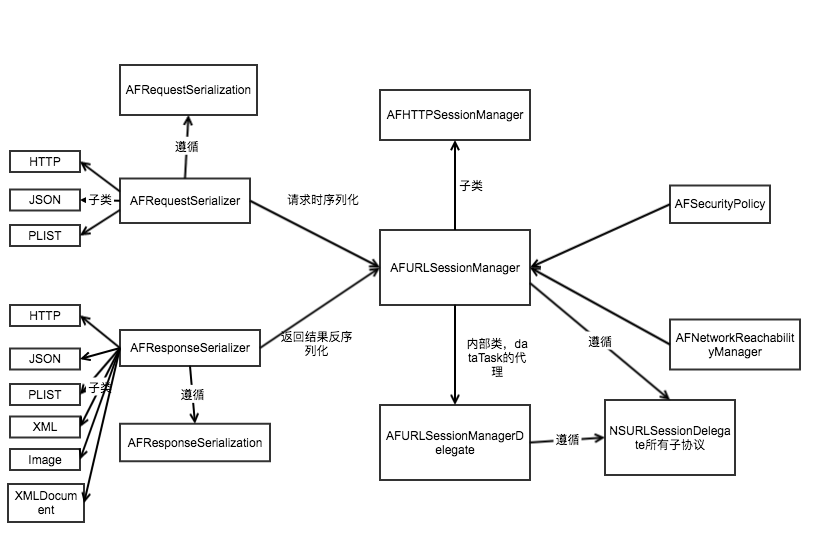
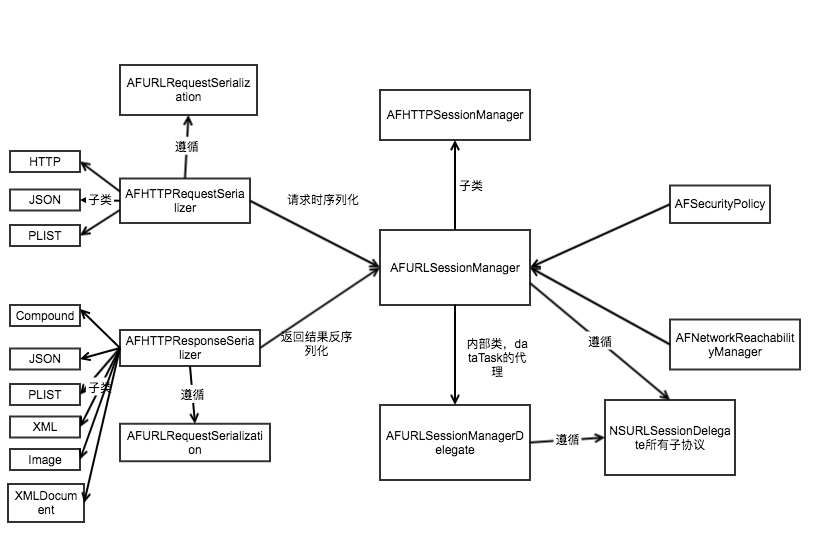
完成blog AFNetworking 3.0 源码浅析

diff --git a/2018-2-15/AFNetworking 3.0 源码浅析.md b/2018-2-15/AFNetworking 3.0 源码浅析.md
@@ -2,7 +2,7 @@
 
 
 
-> 摘要: AFNetworking 3.0 基于NSURLSession进行网络请求，最关键的地方其实还是NSURLRequest与NSURLSessionTask的构建。
+> 摘要: AFNetworking 3.0 基于NSURLSession进行网络请求，最关键的地方其实还是NSURLRequest与NSURLSessionTask的构造。
 
 
 ## AFN结构图
@@ -11,25 +11,57 @@
 
 ## 一次完整的AFN请求流程
 
-1. 构建**AFURLSessionManager** :
+1. 构造**AFURLSessionManager**:
 <pre><code>- (instancetype)initWithSessionConfiguration:(NSURLSessionConfiguration *)configuration;
 </code></pre>
-在该构造方法中，会涉及到**NSURLSession**的构造，该过程中，将设置自己为**NSURLSessionDelegate**的代理，该代理的调用会调用到专门处理与sessionTask相关的 **AFURLSessionManagerTaskDelegate**的方法。
+在该构造方法中，会涉及到**NSURLSession**的构造，该过程中，将设置自己为**NSURLSessionDelegate**的代理，该代理的调用会调用到专门处理与sessionTask相关的 **AFURLSessionManagerTaskDelegate**的方法。  
+
+  同时，会初始化遵循**AFURLResponseSerialization**的实例。
 
 
-2. 构建**NSURLSessionTask** -- 利用AFURLSessionManager构建,其中需要**NSURLRequest**类型的参数:
+2. 构造**NSURLSessionTask** 
+  - 利用AFURLSessionManager构造,其中需要**NSURLRequest**类型的参数:
 <pre><code>- (NSURLSessionDataTask *)dataTaskWithRequest:(NSURLRequest *)request
                                 completionHandler:(nullable void (^)(NSURLResponse *response, id _Nullable responseObject,  NSError * _Nullable error))completionHandler DEPRECATED_ATTRIBUTE;
 </code></pre>
 
-3. 构建**NSURLRequest** -- 遵循AFURLRequestSerialization协议的方法构建。其中会分为NSURLSessionDataTask, NSURLSessionUploadTask和NSURLSessionDownloadTask的构建。以NSURLSessionDataTask中的一个构造方法为例：
+3. 构造**NSURLRequest**  
+  - 遵循AFURLRequestSerialization协议的方法构造。其中会分为NSURLSessionDataTask, NSURLSessionUploadTask和NSURLSessionDownloadTask的构造。以NSURLSessionDataTask中的一个构造方法为例：
 <pre><code>- (NSURLRequest *)requestBySerializingRequest:(NSURLRequest *)request
                                    withParameters:(id)parameters
                                             error:(NSError *__autoreleasing *)error;
 </code></pre>
 
 
-4. 最后，在构建出来的NSURLSessionTask中，执行[task resume]方法，实现一次网络请求。
+4. 最后，在构造出来的NSURLSessionTask中，执行[task resume]方法，实现一次网络请求。
 
-## AFRequestSerializer
+5. 在请求完毕，返回response时，会根据不同的task调用**NSURLSessionDelegate**对应的方法，经过AFURLSessionManager后，最后执行的方法是**AFURLSessionManagerTaskDelegate**里面的代理方法。在该方法中，执行专门为AFN开辟的异步并行线程*url\_session\_manager\_processing\_queue*以回调completionHandler。
 
+## AFURLRequestSerializer
+
+AFURLRequestSerializer分为三个子类：AFHTTPRequestSerializer、AFJSONRequestSerializer和AFPropertyListRequestSerializer，分别对应入参为NSData、JSON和plist（特殊的XML）格式的数据，最后统一转换成NSData进行网络请求。  
+
+详情可以参看[AFNetworking 3.0 源码解读（三）之 AFURLRequestSerialization](http://www.cnblogs.com/machao/p/5725874.html)这篇文章，里面有详细的解释，我就不多加赘述了。
+
+## AFHTTPResponseSerializer
+AFHTTPResponseSerializer有六个子类，分别对应JSON响应、XML响应、XML Doucment响应（仅限Mac OS）、plist响应、image响应以及复合响应。
+
+详情可以参看[AFNetworking 3.0 源码解读（四）之 AFURLResponseSerialization](http://www.cnblogs.com/machao/p/5755947.html)这篇文章。
+
+## AFSecurityPolicy
+这是一个验证证书是否正确的类。   
+
+1. AFSSLPinningMode这个枚举变量代表的意义如下：
+<pre><code>
+typedef NS_ENUM(NSUInteger, AFSSLPinningMode) {
+    AFSSLPinningModeNone,          //无条件信任服务器的证书
+    AFSSLPinningModePublicKey,     //对服务器返回的证书中的PublicKey进行验证，通过则通过，否则不通过
+    AFSSLPinningModeCertificate,   //对服务器返回的证书同本地证书全部进行校验，通过则通过，否则不通过
+};
+</code></pre>
+2. 利用下面的方法对证书进行校验。当pinnedCertificates集合中任一证书通过验证，该方法都会返回true。
+<pre><code>- (BOOL)evaluateServerTrust:(SecTrustRef)serverTrust
+                  forDomain:(NSString *)domain
+</code></pre>
+
+详情可以参看[AFNetworking 3.0 源码解读（二）之 AFSecurityPolicy](http://www.cnblogs.com/machao/p/5704201.html)这篇文章。
